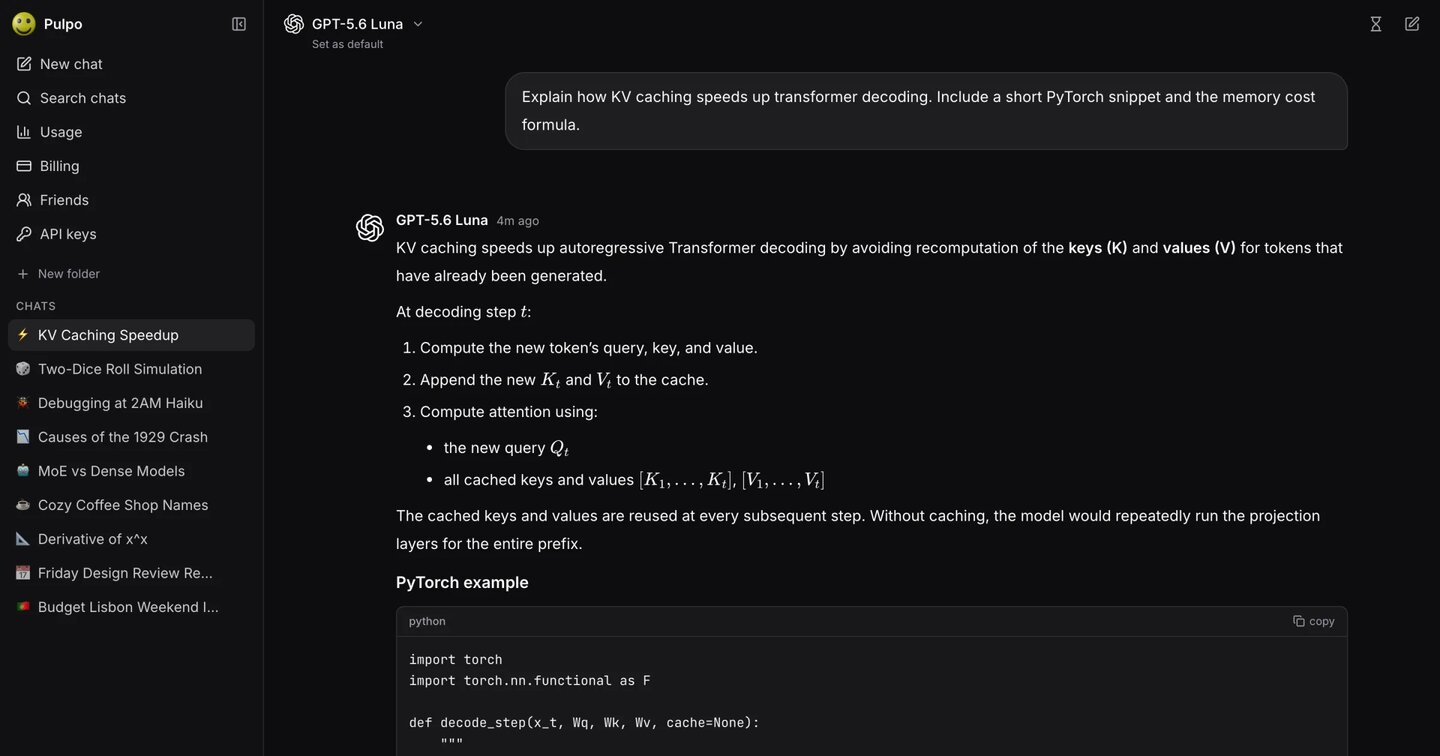
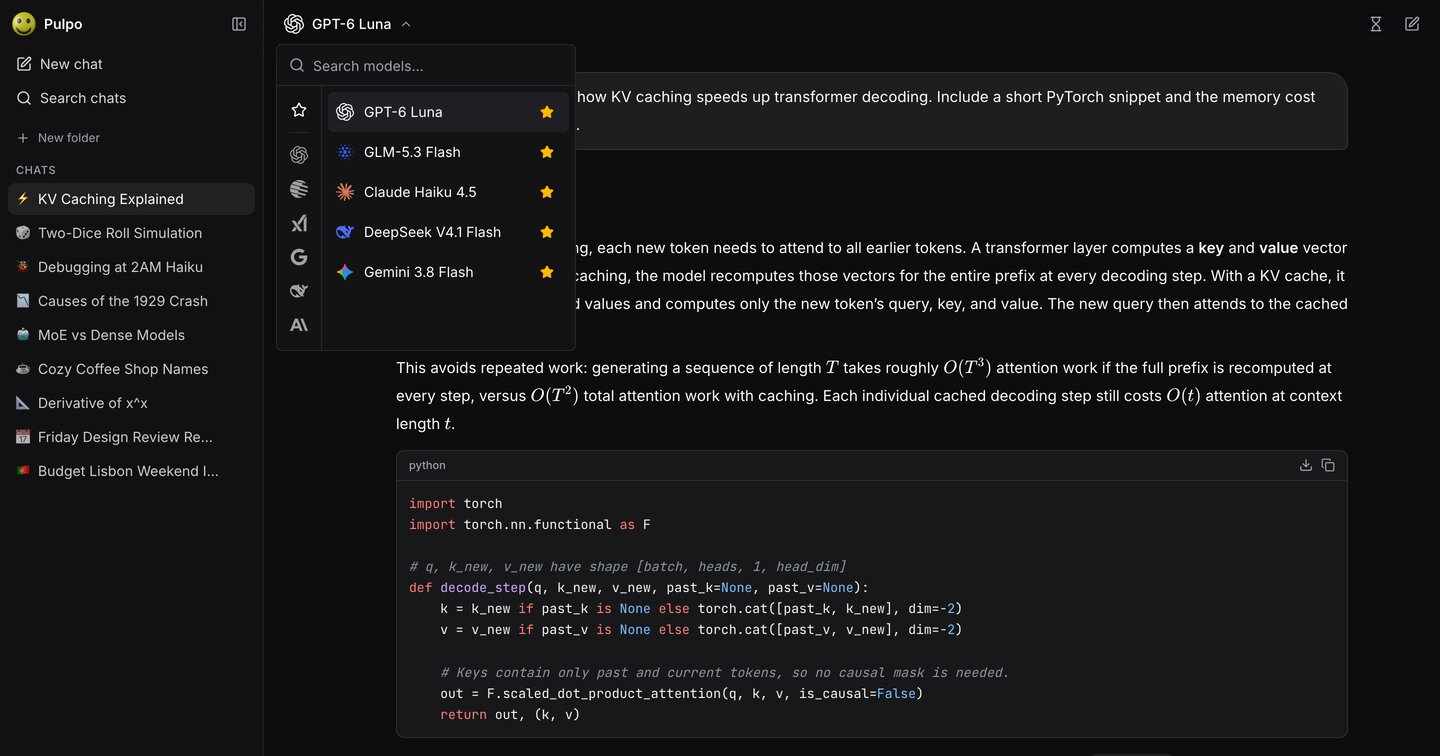
feat(web): recapture landing screenshot on the default model with the picker open

diff --git a/docs/landing-screenshots.md b/docs/landing-screenshots.md
@@ -12,8 +12,8 @@ The web landing page shown to signed-out visitors at `/` uses a screenshot of th
 
 Production has the full model catalog, so the screenshot matches what visitors get.
 
-1. Use the shared demo account on [pulpo.baby](https://pulpo.baby). It needs a presentable name and username and enough balance for eight short prompts. Never capture a personal account: its chat titles appear in the sidebar.
-2. To refresh the demo chats, sign in to the demo account and move its chats to the trash first. The script only creates sidebar chats when the account has none.
+1. Use the shared demo account on [pulpo.baby](https://pulpo.baby). It needs a presentable name and username, the model to feature set as its default, the models to preview marked as favorites, and enough balance for eight short prompts. Never capture a personal account: its chat titles appear in the sidebar.
+2. To refresh only the hero chat, move the previous hero chat to the trash. To refresh the sidebar demo chats too, trash all of the account's chats. The script only creates sidebar chats when the account has none.
 3. Run the script. It targets production by default:
 
    ```sh
@@ -44,8 +44,9 @@ This needs no production account, but the local preview only has the preview pro
 
 - With `--demo-profile`, renames the signed-in account to **Alex Rivera** (`@alex`). This changes the real account, so use it only on disposable accounts.
 - If the account has no chats, sends seven short prompts so the sidebar looks lived in.
-- Sends the hero prompt: "Explain how KV caching speeds up transformer decoding. Include a short PyTorch snippet and the memory cost formula." Its answer shows headings, display math, and a code block, and a fresh chat shows the "now" timestamp.
-- Opens that chat at 1440×900 with a device scale factor of 2, switches the composer's agent control to Pulpo Agent, scrolls to the start of the conversation, and captures it once with a light and once with a dark color scheme.
+- Sends the hero prompt in a new chat, which uses the account's default model: "Explain how KV caching speeds up transformer decoding. Include a short PyTorch snippet and the memory cost formula." Its answer shows headings, display math, and a code block, and a fresh chat shows the "now" timestamp.
+- Turns off automatic expiry for that chat, so it stays in the account and its sidebar entry has no hourglass.
+- Opens that chat at 1440×900 with a device scale factor of 2, switches the composer's agent control to Pulpo Agent, scrolls to the start of the conversation, opens the model picker to preview the account's favorite models, and captures it once with a light and once with a dark color scheme.
 - Converts each capture with `cwebp -q 80 -m 6 -resize 2400 0` into `apps/web/public/landing/`.
 - Saves the top 1440×756 of the dark capture as `apps/web/public/og-image.jpg`, the link-preview image referenced by `og:image` in `apps/web/index.html`.
 
